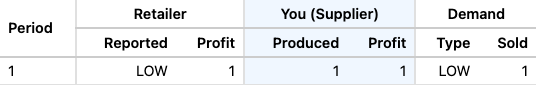
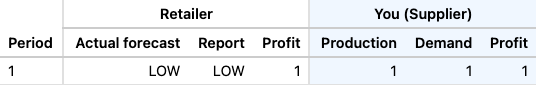
infoshare history: the approved header — and Demand is actualDemand, not sales
(blank) |            Retailer            |          Supplier
  Period  | Actual forecast Report Profit  | Production Demand Profit

Seven leaf columns: one standalone, then three and three. Viewer's block shaded and
headed "You (Retailer)" / "You (Supplier)" by the shared widget, as crisis does.

⚠ THIS REPLACES A "Demand: Type · Sold" BLOCK THAT WAS WRONG TWICE. It invented a third
group for columns that belong to the two seats, and it rendered `sales` where the column
should have been `actualDemand`. A round with demand 3 and production 1 showed "Sold 1"
and hid the 3 — it concealed the shortfall, which is the exact mistake this game is
about. 15-history-table.png now shows production 1 against Demand 2, the case that used
to read as "Sold 1".

Sales is not a column and never was. It is min(production, demand), derivable from two
columns already on screen; the demand that was MISSED is not derivable from anything.

── WHY THE PUBLIC-TRUTH COLUMNS SIT INSIDE THE SEAT BLOCKS ──────────────────
Grouped by WHOSE STORY THE COLUMN BELONGS TO, not by who may see it. The retailer sees
the actual forecast, then chooses what to report — adjacent on purpose, because the gap
between them IS the lie. The supplier commits production, then demand arrives and
decides what sold, so Demand sits under Supplier right after the commitment it judges.

Both are public to both seats once a round resolves. That has not changed and is what
[…]

diff --git a/frontend/src/game/HistoryTable.tsx b/frontend/src/game/HistoryTable.tsx
@@ -30,34 +30,44 @@ import type { RoundRecord, Role } from '../api'
 const money = (n: number) => num(n)
 
 
-/** The viewer's own block is marked `mine` and lightly shaded. */
 /**
- * THE SEVEN COLUMNS (spec §1.2), IDENTICAL FOR BOTH ROLES.
+ * THE SEVEN COLUMNS (spec §1.2), IDENTICAL FOR BOTH ROLES — one standalone, then three
+ * and three, under TWO header rows exactly as crisis renders it.
+ *
+ *   (blank) |            Retailer            |          Supplier
+ *   Period  | Actual forecast Report Profit  | Production Demand Profit
  *
  * ⚠ THE PRIVACY IN THIS GAME IS WITHIN A ROUND, NOT ACROSS THE GAME. Once a round
  * resolves the true type and the realised demand become public to both seats — which is
  * exactly what makes a misleading report discoverable one round later, and therefore what
  * makes reputation possible at all. Do not filter a column by role.
  *
+ * ── WHY THE TWO PUBLIC-TRUTH COLUMNS SIT INSIDE THE SEAT BLOCKS ──────────────
+ * They are grouped by WHOSE STORY THE COLUMN BELONGS TO, not by who may see it. The
+ * retailer's story is: it sees the actual forecast, then chooses what to report — so
+ * those two sit side by side, and the gap between them IS the lie. The supplier's story
+ * is: it commits production, then demand arrives and decides what sold — so Demand sits
+ * under Supplier, immediately after the commitment it judges.
+ *
+ * ⚠ `Demand` IS `actualDemand`, NOT `sales`. Sales is not a column and never was. An
+ * earlier draft rendered `h.sales` under a "Sold" heading, so a round with demand 3 and
+ * production 1 showed "Sold 1" and hid the 3 — concealing the shortfall, which is the
+ * exact mistake this game is about. Sales is min(production, demand) and is therefore
+ * derivable from two columns already on screen; the demand that was MISSED is not.
+ *
  * The columns come from THREE different places, a distinction invisible in the list and
  * needed by anyone wiring it (spec §1.2):
- *   Actual Forecast    round field  demand_type
- *   Reported Forecast  submission   stage 1
- *   Production         submission   stage 2
- *   Customer Demand    round field  actual_demand
- *   both Profits       result value from the resolver
- */
-/**
- * GROUPED MODE — TWO HEADER ROWS, exactly as crisis renders it.
+ *   Actual forecast  round field  demand_type
+ *   Report           submission   stage 1
+ *   Production       submission   stage 2
+ *   Demand           round field  actual_demand
+ *   both Profits     result       value from the resolver
  *
  * ⚠ THE FLAT SEVEN WERE WHAT SET THE WIDTH. Every column spelled out its owner
  * ("Reported Forecast by Retailer"), repeating in each header what a group header says
  * once. Nine hundred pixels of table for seven values, overflowing a 1300px window.
- *
  * Crisis fits TEN columns in ~400px because the top row groups by WHO and the bottom row
- * carries short labels. Same widget, a mode infoshare simply was not using — I built the
- * group/sub model in slice 3, noted infoshare's flat seven "falls out of the model", and
- * drew the wrong conclusion: the model was right and the table was the wrong shape.
+ * carries short labels. Same widget, a mode infoshare simply was not using.
  *
  * ⚠ NO STYLE VALUES HERE. Padding, font sizes, row height, the two-row header and the
  * `mine` shading all live in the shared widget, so this cannot drift from crisis by
@@ -69,26 +79,20 @@ function sections(viewerRole?: Role) {
     col<RoundRecord>('round', 'Period', (h) => h.round, { align: 'left' }),
 
     group<RoundRecord>('retailer', 'Retailer', [
-      sub('message', 'Reported', (h) => h.message),
+      // What it SAW, then what it SAID. Adjacent on purpose: the gap is the lie.
+      sub('demandType', 'Actual forecast', (h) => h.demandType),
+      sub('message', 'Report', (h) => h.message),
       sub('profitR', 'Profit', (h) => money(h.profits.retailer),
         { testId: (h) => `retailer-profit-${h.round}` }),
     ], { mine: viewerRole === 'retailer' }),
 
     group<RoundRecord>('supplier', 'Supplier', [
-      sub('production', 'Produced', (h) => h.production),
+      // What it COMMITTED, then the demand that judged it. ⚠ actualDemand, not sales.
+      sub('production', 'Production', (h) => h.production),
+      sub('actualDemand', 'Demand', (h) => h.actualDemand),
       sub('profitS', 'Profit', (h) => money(h.profits.supplier),
         { testId: (h) => `supplier-profit-${h.round}` }),
     ], { mine: viewerRole === 'supplier' }),
-
-    /*
-      WHAT REALLY HAPPENED. Belongs to neither seat, so it takes no `mine` shading.
-      ⚠ Both cells are public to BOTH seats once the round resolves — that is what makes
-      a report that did not match discoverable one round later.
-    */
-    group<RoundRecord>('demand', 'Demand', [
-      sub('demandType', 'Type', (h) => h.demandType),
-      sub('sold', 'Sold', (h) => h.sales),
-    ]),
   ]
 }
 
@@ -126,8 +130,8 @@ export default function HistoryTable({ history, viewerRole }: { history: RoundRe
       />
       {history.length > 0 && (
         <p style={{ color: colors.textSecondary, fontSize: '0.75rem', margin: '0.4rem 0 0' }}>
-          The Demand block is what really happened — both players see it once the round
-          is over.{viewerRole ? ' Your own block is shaded.' : ''}
+          Actual forecast and Demand are what really happened — both players see them
+          once the round is over.{viewerRole ? ' Your own block is shaded.' : ''}
         </p>
       )}
     </div>
